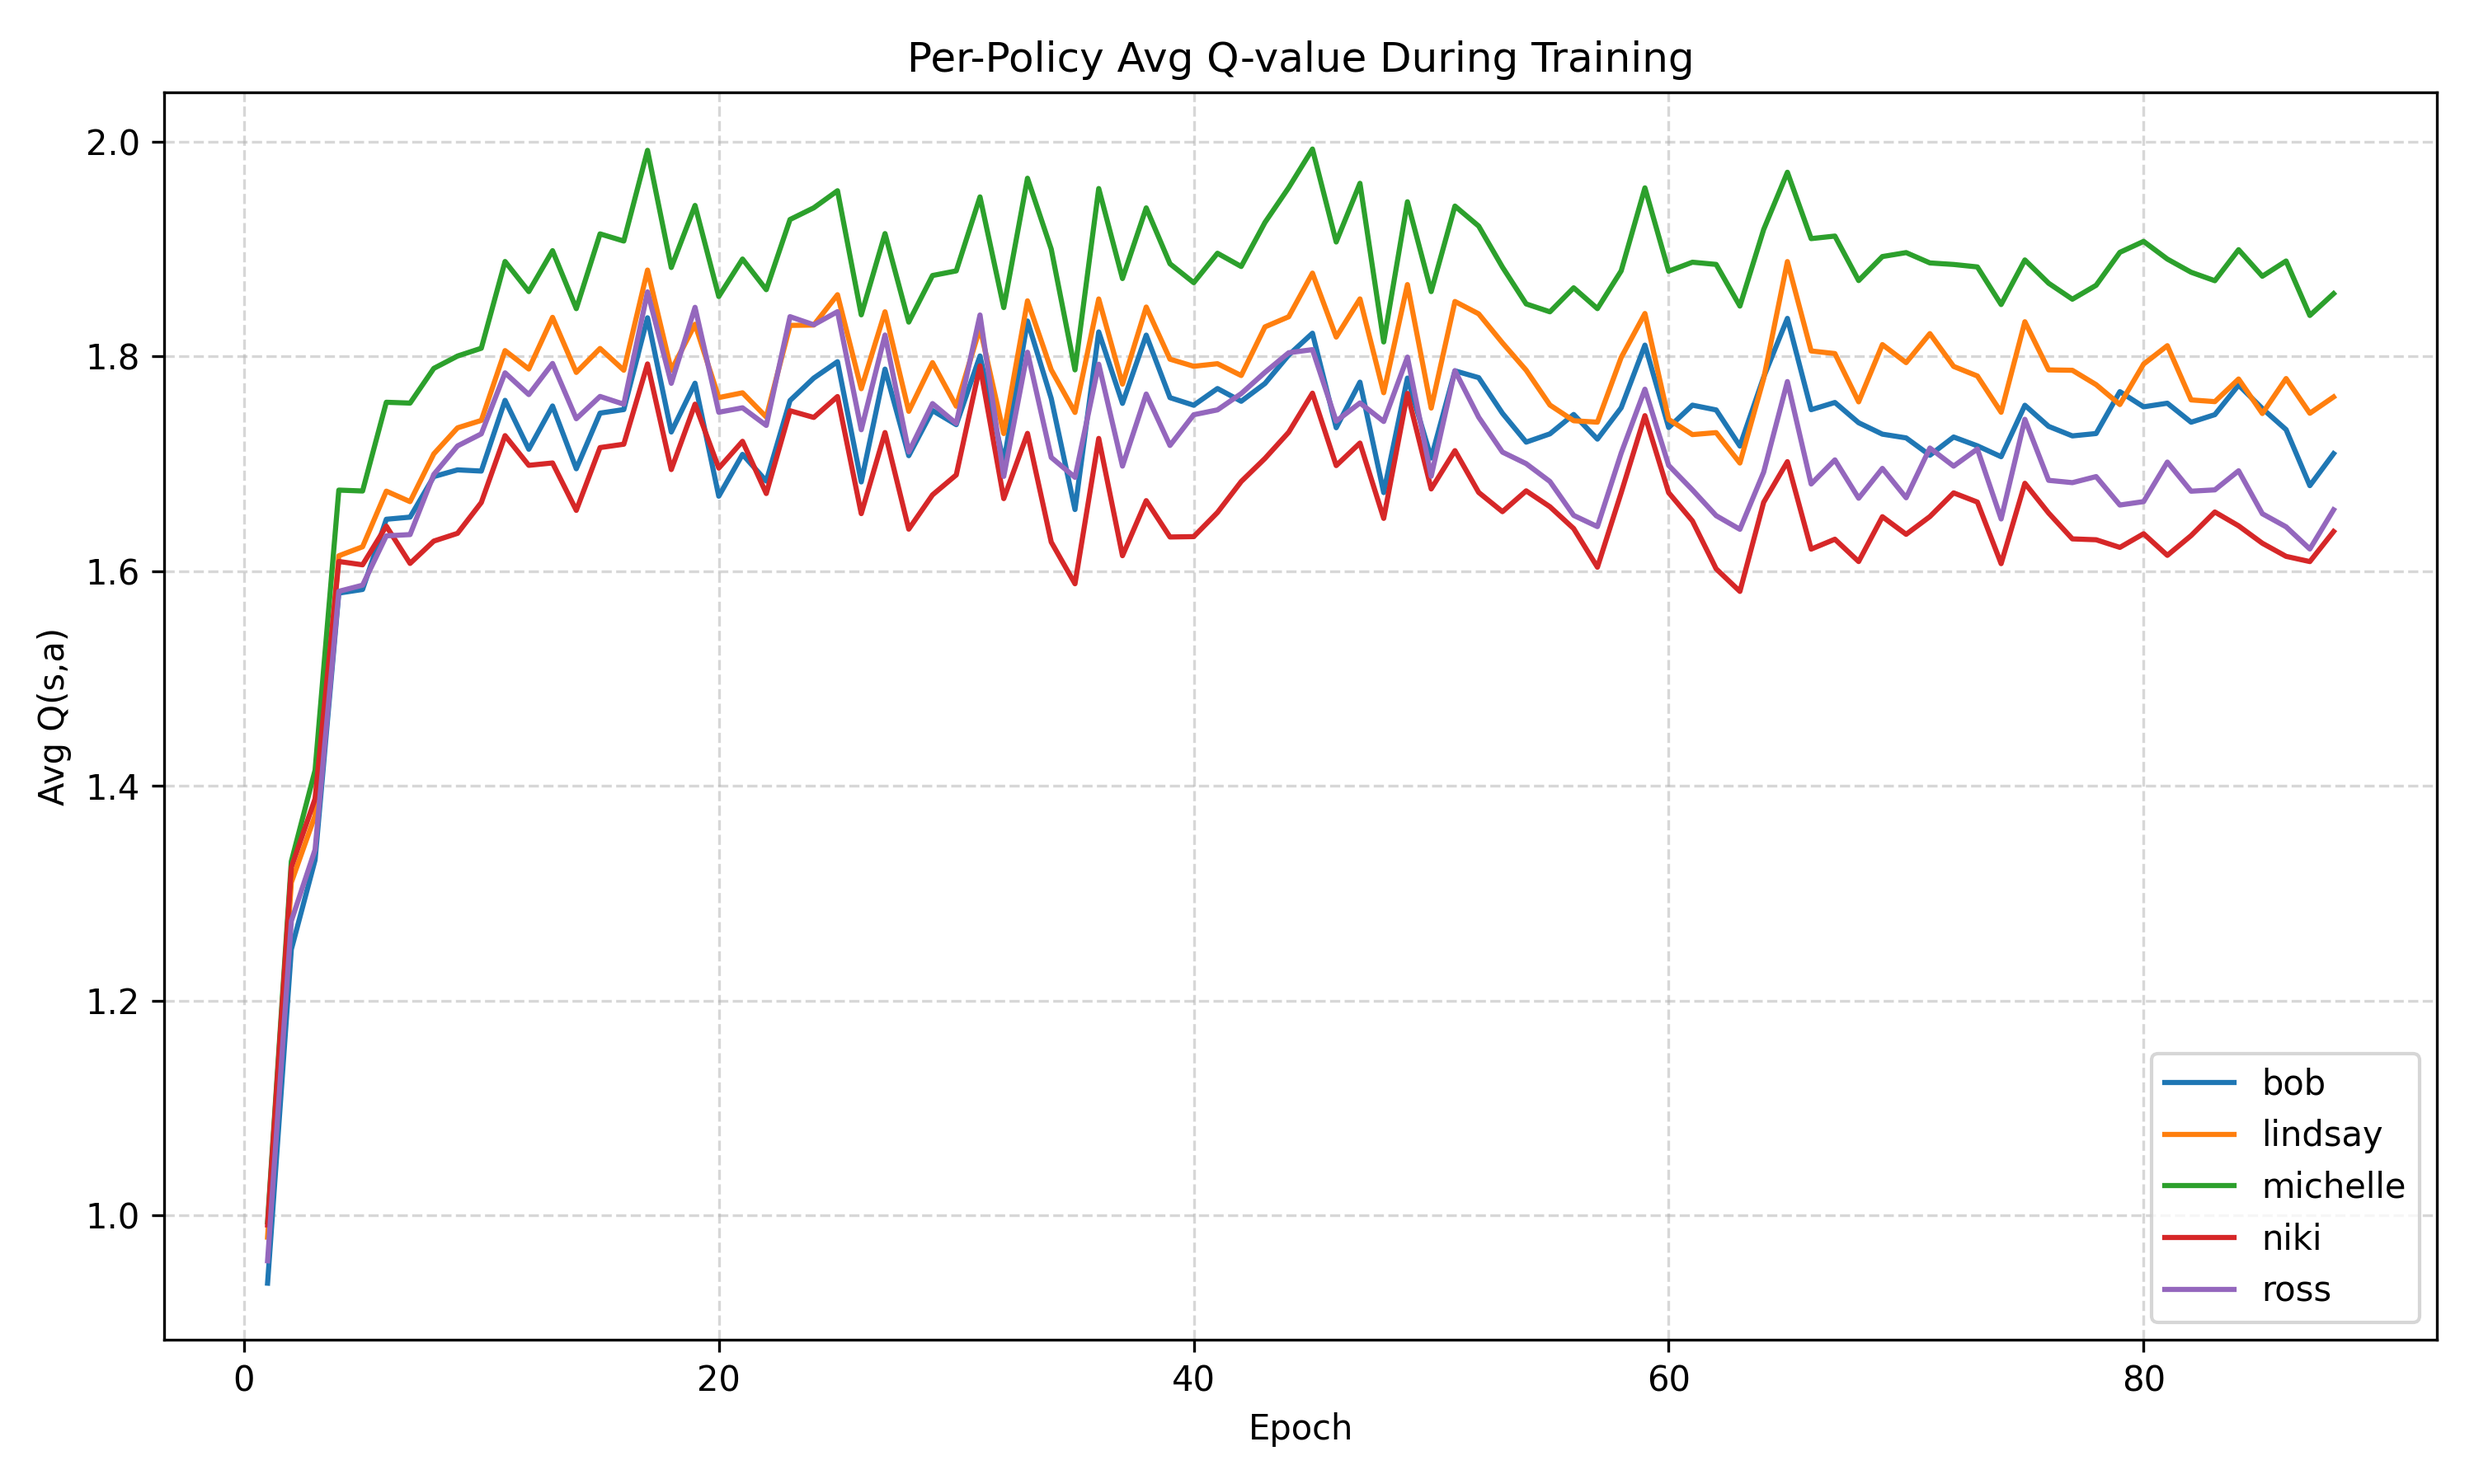
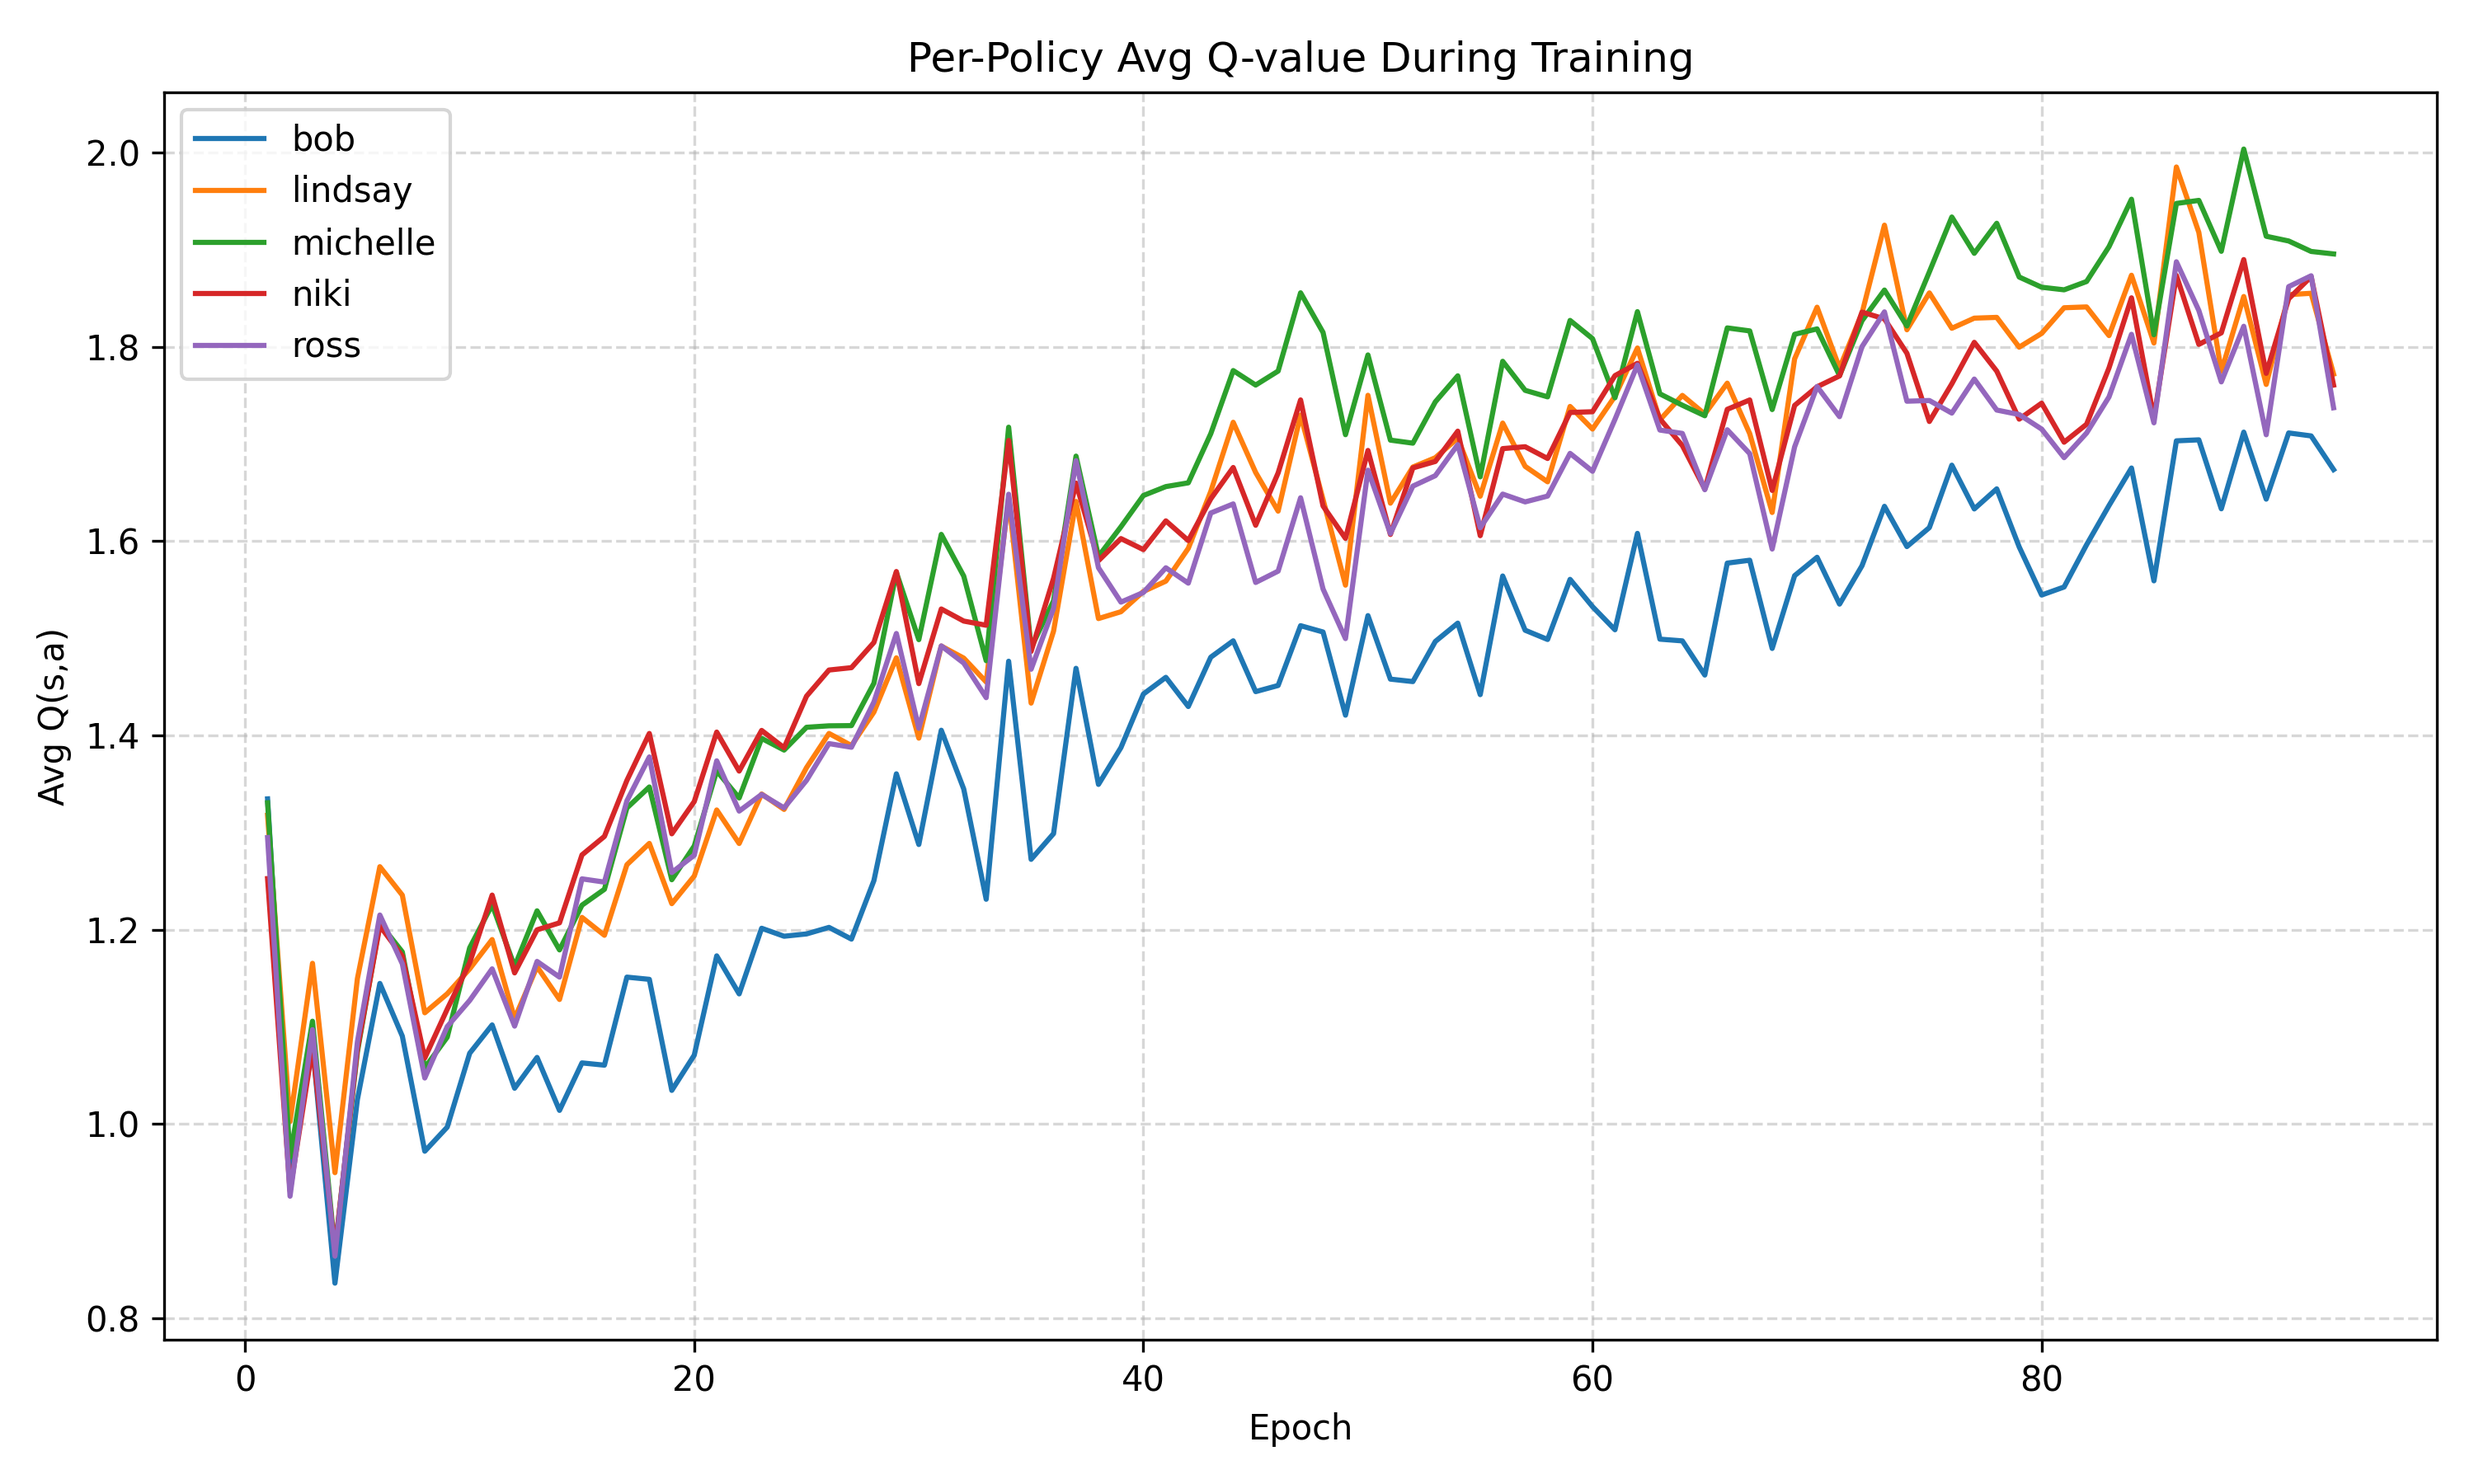
improve

diff --git a/iql/I03_train_iql.py b/iql/I03_train_iql.py
@@ -7,6 +7,13 @@ Architecture:
     Q(s,a) = V(s) + A(s,a) − mean_a[A(s,a)]
     where A(s,a) = project(encode(s)) · frozen_embed(a)
 
+Key training features:
+    - EMA target V-network for stable Bellman targets
+    - Class-balanced sampling (oversamples minority policies)
+    - Gradient clipping
+    - Gaussian state augmentation
+    - Cosine LR schedule with AdamW
+
 INPUTS:  data/iql/iql_dataset.jsonl, data/iql/label_map.json,
          data/indexes/policies/operator_prototypes.npy
 OUTPUTS: data/iql/selector/iql_model.pt, data/iql/selector/value_model.pt,
@@ -14,8 +21,10 @@ OUTPUTS: data/iql/selector/iql_model.pt, data/iql/selector/value_model.pt,
          iql/plots/training_curves.png, iql/plots/per_policy_qvalues.png
 """
 
+import copy
 import json
 import sys
+from collections import Counter
 from pathlib import Path
 
 import numpy as np
@@ -35,6 +44,7 @@ from config.settings import (
     IQL_WEIGHT_DECAY, IQL_VAL_SPLIT, IQL_GAMMA, IQL_LAMBDA_V,
     IQL_EARLY_STOP_PATIENCE,
     IQL_MARGIN, IQL_MARGIN_WEIGHT, IQL_NOISE_STD,
+    IQL_TARGET_TAU, IQL_GRAD_CLIP,
 )
 from iql.networks import QNetworkEmbed, ValueNetwork
 
@@ -79,8 +89,15 @@ print(f"[INFO] Saved normalization stats → {NORM_OUT}")
 label_map   = json.load(open(LABEL_MAP_FILE))
 num_actions = len(label_map)
 state_dim   = states.shape[1]
+
+# Print class distribution
+act_counts = Counter(actions)
+inv_map = {v: k for k, v in label_map.items()}
 print(f"[INFO] {len(states)} samples | state_dim={state_dim} | "
       f"num_actions={num_actions} | device={DEVICE}")
+print("[INFO] Action distribution:")
+for aid in sorted(act_counts):
+    print(f"  {inv_map[aid]:12s}: {act_counts[aid]:4d} ({100*act_counts[aid]/len(states):.1f}%)")
 
 # ─────────────────────────────────────────────────────────────────────────────
 # Action embeddings (frozen prototypes)
@@ -94,11 +111,17 @@ print(f"[INFO] Loaded {num_actions} frozen operator embeddings "
       f"(dim={action_embeds.shape[1]})")
 
 # ─────────────────────────────────────────────────────────────────────────────
-# Build models
+# Build models + EMA target network
 # ─────────────────────────────────────────────────────────────────────────────
-print("[INFO] Building Dueling-Embed Q-network + ValueNetwork …")
+print("[INFO] Building Dueling-Embed Q-network + ValueNetwork + Target V …")
 qnet  = QNetworkEmbed(state_dim, action_embeds).to(DEVICE)
 vnet  = ValueNetwork(state_dim).to(DEVICE)
+
+# Target V-network: slow-moving copy used for stable Bellman targets
+vnet_target = copy.deepcopy(vnet)
+for p in vnet_target.parameters():
+    p.requires_grad_(False)
+
 opt_q = optim.AdamW(qnet.parameters(), lr=IQL_LR_Q, weight_decay=IQL_WEIGHT_DECAY)
 opt_v = optim.AdamW(vnet.parameters(), lr=IQL_LR_V, weight_decay=IQL_WEIGHT_DECAY)
 sched_q = optim.lr_scheduler.CosineAnnealingLR(opt_q, T_max=IQL_EPOCHS, eta_min=1e-5)
@@ -106,9 +129,22 @@ sched_v = optim.lr_scheduler.CosineAnnealingLR(opt_v, T_max=IQL_EPOCHS, eta_min=
 mse   = nn.MSELoss()
 
 
-def batch_iter(X, X_next, a, r, bs):
+@torch.no_grad()
+def ema_update(target: nn.Module, source: nn.Module, tau: float):
+    """Soft-update target parameters: θ_t ← τ·θ_s + (1−τ)·θ_t"""
+    for tp, sp in zip(target.parameters(), source.parameters()):
+        tp.data.mul_(1.0 - tau).add_(sp.data, alpha=tau)
+
+
+def balanced_batch_iter(X, X_next, a, r, bs):
+    """Yield batches with class-balanced sampling (oversamples minority actions)."""
     n = len(X)
-    idx = np.random.permutation(n)
+    counts = np.bincount(a, minlength=num_actions).astype(np.float64)
+    counts = np.maximum(counts, 1.0)
+    weights = 1.0 / counts[a]
+    weights /= weights.sum()
+
+    idx = np.random.choice(n, size=n, replace=True, p=weights)
     for i in range(0, n, bs):
         j = idx[i : i + bs]
         yield (
@@ -142,22 +178,23 @@ for epoch in range(1, IQL_EPOCHS + 1):
     tot_LQ, tot_LV, tot_Lm, cnt = 0.0, 0.0, 0.0, 0
     q_means, q_stds = [], []
 
-    for xb, xnb, ab, rb in batch_iter(X_tr, Xn_tr, a_tr, r_tr, IQL_BATCH_SIZE):
-        # State augmentation: Gaussian noise prevents overfitting on small dataset
+    for xb, xnb, ab, rb in balanced_batch_iter(X_tr, Xn_tr, a_tr, r_tr, IQL_BATCH_SIZE):
         if IQL_NOISE_STD > 0:
             xb  = xb  + IQL_NOISE_STD * torch.randn_like(xb)
             xnb = xnb + IQL_NOISE_STD * torch.randn_like(xnb)
 
-        q_all    = qnet(xb)                                    # [B, num_actions]
-        q_sel    = q_all.gather(1, ab.unsqueeze(1)).squeeze(1)  # [B]
-        v_next   = vnet(xnb)
+        q_all    = qnet(xb)
+        q_sel    = q_all.gather(1, ab.unsqueeze(1)).squeeze(1)
+
+        # Use TARGET V-network for stable Bellman targets
+        with torch.no_grad():
+            v_next_target = vnet_target(xnb)
         v_vals   = vnet(xb)
-        target_q = rb + IQL_GAMMA * v_next.detach()
+        target_q = rb + IQL_GAMMA * v_next_target
 
         L_Q = mse(q_sel, target_q)
         L_V = mse(v_vals, q_sel.detach())
 
-        # Margin loss: penalise when spread is too small
         q_spread = q_all.max(dim=1).values - q_all.min(dim=1).values
         L_margin = IQL_MARGIN_WEIGHT * torch.clamp(
             IQL_MARGIN - q_spread, min=0.0
@@ -167,7 +204,15 @@ for epoch in range(1, IQL_EPOCHS + 1):
 
         opt_q.zero_grad(); opt_v.zero_grad()
         loss.backward()
+
+        # Gradient clipping
+        nn.utils.clip_grad_norm_(qnet.parameters(), IQL_GRAD_CLIP)
+        nn.utils.clip_grad_norm_(vnet.parameters(), IQL_GRAD_CLIP)
+
         opt_q.step(); opt_v.step()
+
+        # EMA update of target V-network
+        ema_update(vnet_target, vnet, IQL_TARGET_TAU)
 
         with torch.no_grad():
             q_means.append(q_all.mean().item())
@@ -193,7 +238,7 @@ for epoch in range(1, IQL_EPOCHS + 1):
         q_all_v = qnet(Xv)
         q_sel_v = q_all_v.gather(1, av.unsqueeze(1)).squeeze(1)
         vv      = vnet(Xv)
-        vv_nxt  = vnet(Xnv)
+        vv_nxt  = vnet_target(Xnv)
         LQ_val  = mse(q_sel_v, rv + IQL_GAMMA * vv_nxt).item()
         LV_val  = mse(vv, q_sel_v).item()
         val_loss = LQ_val + IQL_LAMBDA_V * LV_val
@@ -240,7 +285,7 @@ print("\n[DEBUG] Average Q-values per policy (full dataset):")
 states_tensor = torch.tensor(states, dtype=torch.float32, device=DEVICE)
 qnet.eval()
 with torch.no_grad():
-    q_full = qnet(states_tensor)     # [N, num_actions]
+    q_full = qnet(states_tensor)
     for i, name in enumerate(label_map.keys()):
         col = q_full[:, i].cpu().numpy()
         print(f"  {name:10s}: mean={col.mean():.4f}  std={col.std():.4f}")
@@ -277,7 +322,6 @@ axs[1, 0].set_title("Avg Q-value (±std)")
 axs[1, 1].plot(epochs, metrics["val_total"], color="tab:red")
 axs[1, 1].set_title("Validation Total Loss")
 
-# Per-policy trajectories (inline)
 policy_arr   = np.array(metrics["per_policy_Q"])
 policy_names = list(label_map.keys())
 for i, name in enumerate(policy_names):
@@ -288,7 +332,6 @@ axs[1, 2].legend(); axs[1, 2].grid(True, ls="--", alpha=0.5)
 plt.tight_layout()
 plt.savefig(PLOT_OUT, dpi=300); plt.close()
 
-# Separate per-policy plot
 plt.figure(figsize=(10, 6))
 for i, name in enumerate(policy_names):
     plt.plot(epochs, policy_arr[:, i], label=name)

diff --git a/retrieval/policy_selector.py b/retrieval/policy_selector.py
@@ -7,6 +7,10 @@ operator policy at runtime.
 
 Q(s,a) = V(s) + A(s,a) − mean_a[A(s,a)]
 where  A(s,a) = project(encode(s)) · frozen_embed(a)
+
+Uses temperature-based softmax sampling so that when Q-values are close,
+different policies can be explored; when one policy dominates, it is
+almost always selected.
 """
 
 import json
@@ -15,12 +19,14 @@ from pathlib import Path
 
 import numpy as np
 import torch
+from scipy.special import softmax
 from sentence_transformers import SentenceTransformer
 
 sys.path.insert(0, str(Path(__file__).resolve().parent.parent))
 from config.settings import (
     SELECTOR_DIR, LABEL_MAP_FILE, PROTOTYPES_FILE,
     EMBED_MODEL_NAME, N_LAST_RESIDENT_INFER, DEVICE,
+    IQL_INFERENCE_TEMP,
 )
 from iql.networks import QNetworkEmbed
 
@@ -37,9 +43,11 @@ def _embed_state(model: SentenceTransformer, texts: list) -> np.ndarray:
 
 
 class IQLPolicySelector:
-    def __init__(self, n_last: int = N_LAST_RESIDENT_INFER):
+    def __init__(self, n_last: int = N_LAST_RESIDENT_INFER,
+                 temperature: float = IQL_INFERENCE_TEMP):
         self.device = DEVICE
         self.n_last = n_last
+        self.temperature = temperature
 
         label_map = json.load(open(LABEL_MAP_FILE))
         self.policy_names = [k for k, _ in sorted(label_map.items(), key=lambda x: x[1])]
@@ -73,9 +81,21 @@ class IQLPolicySelector:
             self.norm_std  = None
             print("[WARN] norm_stats.npz not found — states will NOT be normalized")
 
-        print(f"[IQLPolicySelector] Loaded Dueling-Embed Q-net on {self.device}")
+        print(f"[IQLPolicySelector] Loaded Dueling-Embed Q-net on {self.device} "
+              f"(temp={self.temperature})")
 
     def select_policy(self, history: list) -> tuple:
+        """
+        Select operator policy given conversation history.
+
+        Uses softmax(Q / temperature) sampling:
+          - Low temperature (→0): nearly argmax (deterministic)
+          - High temperature (→∞): nearly uniform (exploratory)
+          - Default 0.3: strongly prefers highest Q but allows switching
+            when Q-values are close
+
+        Returns (policy_name, {policy: q_value, ...})
+        """
         res_texts = [h["text"] for h in history if h["role"] == "resident"]
         last_n    = res_texts[-self.n_last:] if res_texts else []
 
@@ -88,5 +108,7 @@ class IQLPolicySelector:
         with torch.no_grad():
             q_values = self.qnet(state_t).cpu().numpy().flatten()
 
-        best_idx = int(np.argmax(q_values))
-        return self.policy_names[best_idx], dict(zip(self.policy_names, q_values.tolist()))
+        probs = softmax(q_values / self.temperature)
+        chosen_idx = int(np.random.choice(len(q_values), p=probs))
+
+        return self.policy_names[chosen_idx], dict(zip(self.policy_names, q_values.tolist()))

diff --git a/iql/networks.py b/iql/networks.py
@@ -52,6 +52,7 @@ class QNetworkEmbed(nn.Module):
         num_actions, action_dim = action_embeds.shape
         self.register_buffer("action_embeds", action_embeds)
 
+        mid_dim = hidden_dim // 2  # 128 when hidden_dim=256
         self.encoder = nn.Sequential(
             nn.Linear(state_dim, hidden_dim),
             nn.ReLU(),
@@ -61,9 +62,13 @@ class QNetworkEmbed(nn.Module):
             nn.ReLU(),
             nn.LayerNorm(hidden_dim),
             nn.Dropout(dropout),
+            nn.Linear(hidden_dim, mid_dim),
+            nn.ReLU(),
+            nn.LayerNorm(mid_dim),
+            nn.Dropout(dropout),
         )
-        self.value_head = nn.Linear(hidden_dim, 1)
-        self.adv_proj   = nn.Linear(hidden_dim, action_dim)
+        self.value_head = nn.Linear(mid_dim, 1)
+        self.adv_proj   = nn.Linear(mid_dim, action_dim)
 
     def forward(self, state: torch.Tensor,
                 action_id: torch.Tensor | None = None) -> torch.Tensor:

diff --git a/config/settings.py b/config/settings.py
@@ -108,6 +108,9 @@ IQL_HIDDEN_DIM_V       = 256
 IQL_MARGIN             = 0.5    # minimum desired spread between best/worst Q
 IQL_MARGIN_WEIGHT      = 0.1    # weight of the margin loss term
 IQL_NOISE_STD          = 0.05   # Gaussian noise injected into states during training
+IQL_TARGET_TAU         = 0.005  # EMA smoothing for target V-network
+IQL_GRAD_CLIP          = 1.0    # max gradient norm
+IQL_INFERENCE_TEMP     = 0.3    # softmax temperature for policy selection
 
 # ═══════════════════════════════════════════════════════════════════════════════
 # DATASET CONFIG
